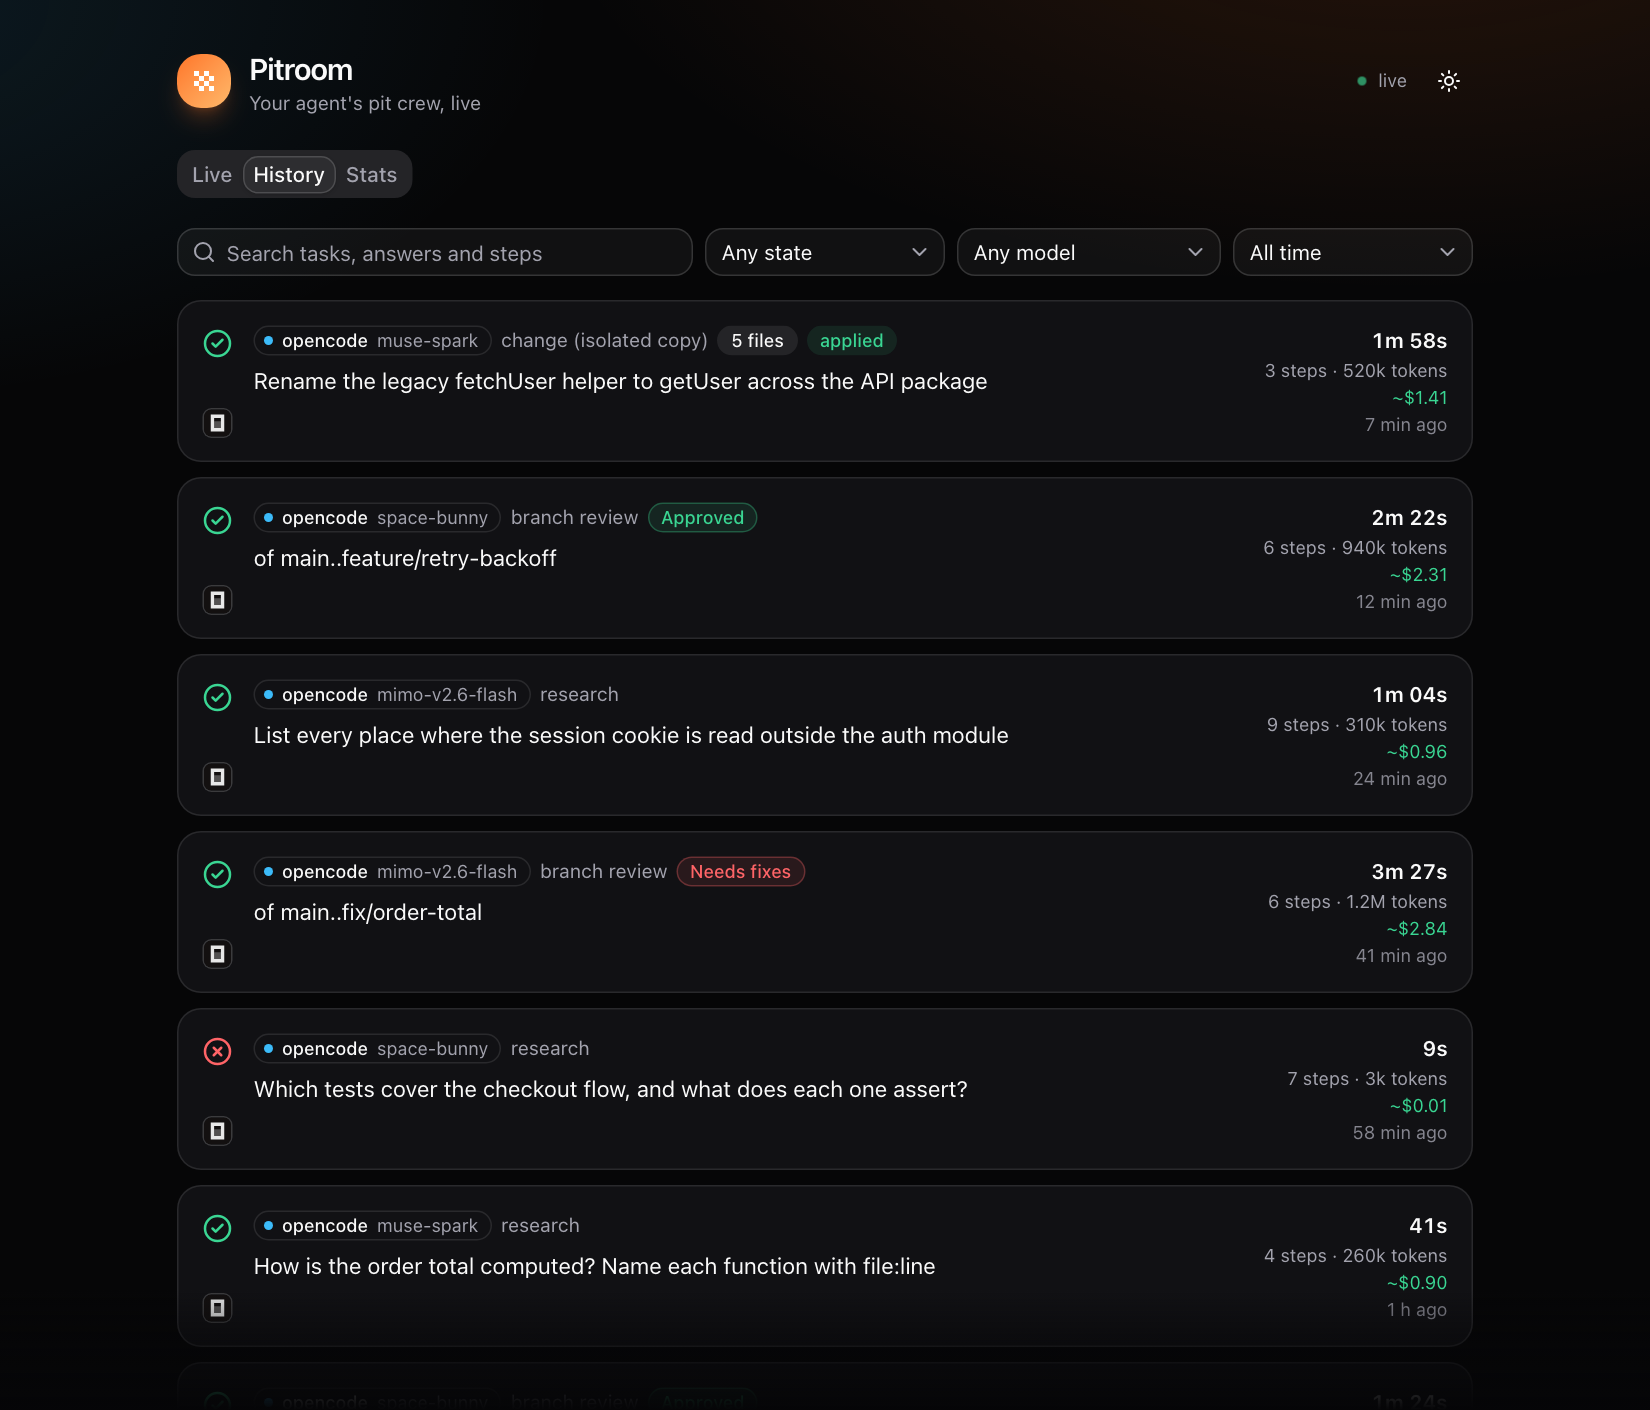
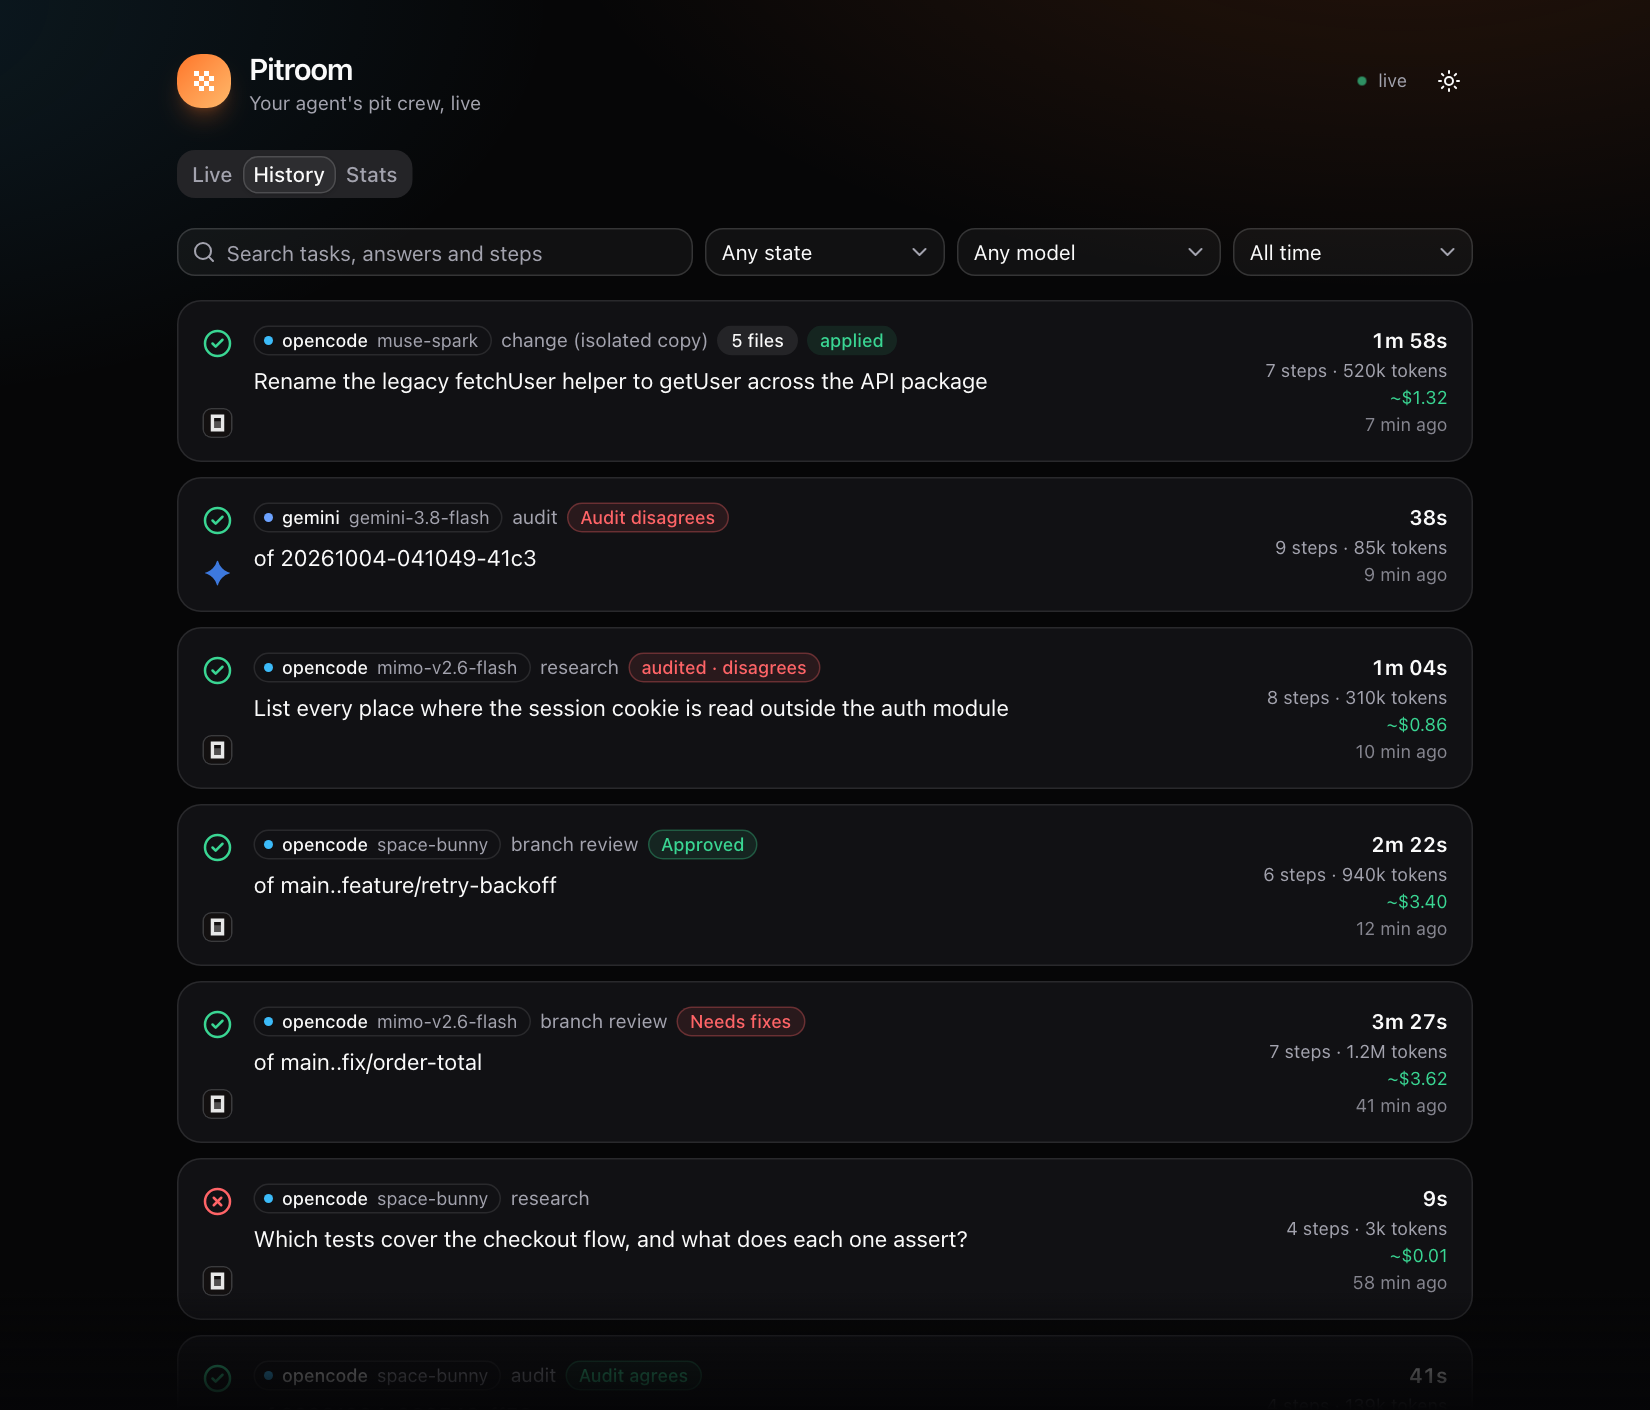
docs: dashboard images with audits, a skipped worker and the Audited column

diff --git a/README.md b/README.md
@@ -162,9 +162,13 @@ The screenshots below show sample data (an imaginary `shop-api` project), not a 
 
 <p align="center"><img src="docs/dash-card.png" width="100%" alt="An expanded run card: the task, a ten-step activity list, the result, five changed files with one opened to its highlighted diff, and the details"></p>
 
+**Audits and skipped workers show on the card.** A research answer that another worker re-checked ([Audits](#audits)) carries an `audited · agrees / partly agrees / disagrees` badge and, when it disagrees, the claims it disputes; a worker left out because its quota ran out is listed under the details ("Skipped … cooling down until 14:05", see `pitroom cooldown`).
+
+<p align="center"><img src="docs/dash-audit.png" width="100%" alt="An expanded research card whose answer was audited by another worker, which disagrees and lists two disputed claims with file:line, and a note that a worker was skipped because its daily quota was used up"></p>
+
 **History** searches everything Pitroom ever ran (the full text of tasks, answers and steps), with filters by state, model and period; each run opens as the same card as on Live. **Stats** shows runs, success rate, time, tokens and savings, per worker and model and per day.
 
-<p align="center"><img src="docs/dash-history.png" width="49%" alt="The History tab: a search box, filters and every past run as a card"> <img src="docs/dash-stats.png" width="49%" alt="The Stats tab: totals, runs per day and success rate per worker and model, each with its logo"></p>
+<p align="center"><img src="docs/dash-history.png" width="49%" alt="The History tab: a search box, filters and every past run as a card"> <img src="docs/dash-stats.png" width="49%" alt="The Stats tab: totals, runs per day, and per worker and model its logo, success rate and how many of its audited answers another worker confirmed"></p>
 
 The dashboard is a React app built once into `dist/ui` and served as two static files, so the CLI still has no runtime dependencies. It follows your system's light or dark theme (a button switches it).
 
